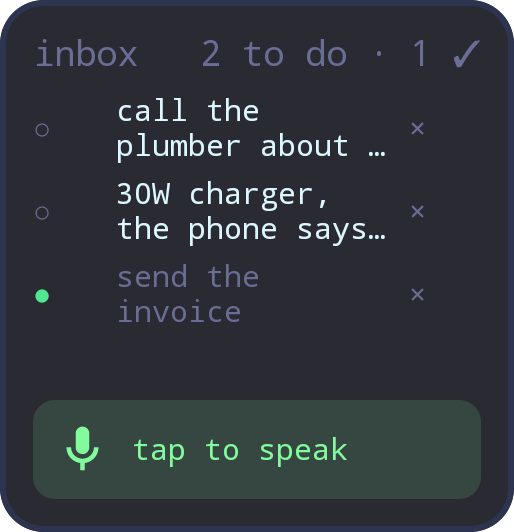
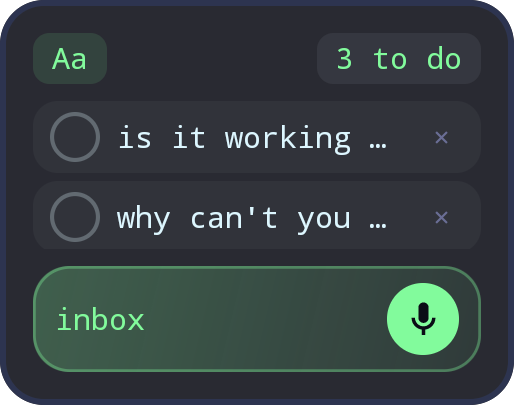
capture 1.1 — a look that says what it is doing (#488)
* capture 1.1: show dictation as it is heard, keep the list while drafting

* capture 1.1: the README describes the new tick circle

---------

diff --git a/widgets/mohsintl/capture/README.md b/widgets/mohsintl/capture/README.md
@@ -2,9 +2,10 @@
 
 Talk to your phone, and it lands in a file your terminal can read.
 
-Tap the bar, speak, tap it again. The words appear in a field right on the tile, where you
-fix them with the keyboard, then save. Nothing is written before you have seen it — the
-draft survives a restart, so a half-finished thought is never lost.
+Tap the bar, speak, tap it again. The words appear in a field on the tile as you speak —
+before dictation stops — where you fix them with the keyboard, then save. Nothing is
+written before you have seen it: the draft survives a restart, so a half-finished thought
+is never lost.
 
 Entries go to `~/inbox.md`, one per line, as a plain markdown list:
 
@@ -14,9 +15,17 @@ Entries go to `~/inbox.md`, one per line, as a plain markdown list:
 - [x] buy a 30W charger
 ```
 
-- `○` ticks an entry done (`- [x]`): it stays in the file and in the list, dimmed. Tap `●` to undo.
+- `Aa` opens an empty field to type a thought instead of speaking it.
+- The circle at an entry's left ticks it done (`- [x]`): it fills green with a `✓`, and the
+  entry stays in the file and in the list, dimmed. Tap it again to undo.
 - Tap an entry's words to edit it in the same field; saving rewrites that line.
 - `×` asks first (`delete?`), then removes the line from the file.
+- `×` at the left of the field throws the draft away.
+
+The bar at the bottom says which side of the inbox you are on — `inbox` when it is showing
+the list — and carries the microphone at its right. Give the tile height and it keeps the
+list on screen while you draft; on a small one the field takes its place until you save or
+close it.
 
 Because it is a plain file, `grep`, a shell script or a coding agent can add to it, and the
 tile picks it up: the two sides share one list. Change the path by editing the `source
